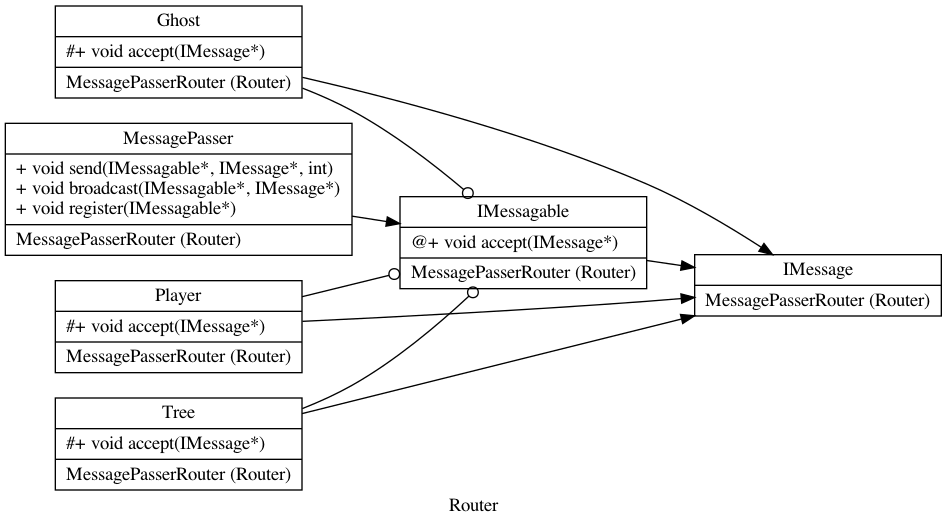
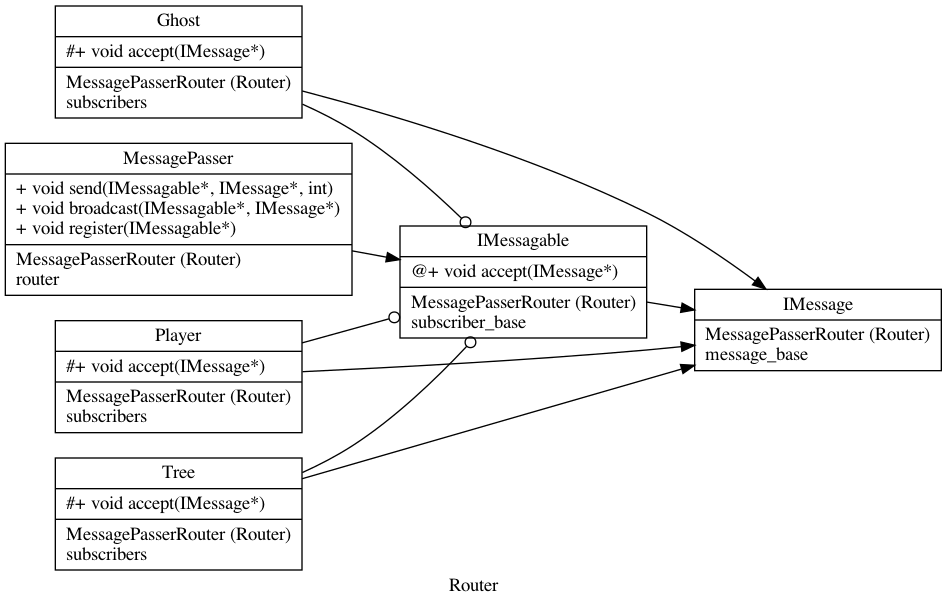
add pattern field name to diagram

diff --git a/compiler/visitor.cc b/compiler/visitor.cc
@@ -271,6 +271,7 @@ void PatternApplierVisitor::visit_pattern_appl(PatternApplication* pattern_appl)
                     exit(1);
                 }
                 DIR::ModuleComposite* composite = modules[assignment_modules[k]->name];
+                pat_instance->fields[assignment_modules[k]->name] = member_name;
                 module_list->add(composite);
             }
 
@@ -283,6 +284,7 @@ void PatternApplierVisitor::visit_pattern_appl(PatternApplication* pattern_appl)
                 exit(1);
             }
             modules[defn_member->name] = modules[assignment_modules[0]->name];
+            pat_instance->fields[assignment_modules[0]->name] = member_name;
         }
 
         DIR::ModuleComposite* mod_comp = modules[defn_member->name];

diff --git a/common/dir.cc b/common/dir.cc
@@ -53,11 +53,11 @@ void NodeGenVisitor::visit_module(Module* module)
             stream << "\\l";
         }
     }
-    if (context.patterns and module->patterns.size() > 0) {
-        stream << "|";
+    if (context.patterns) {
         for (PatternInstance* pattern : module->patterns) {
+            stream << "|";
             pattern->print(stream);
-            stream << "\\l";
+            stream << "\\l" << pattern->fields[module->name] << "\\l";
         }
     }
     stream << "\"];" << endl;
